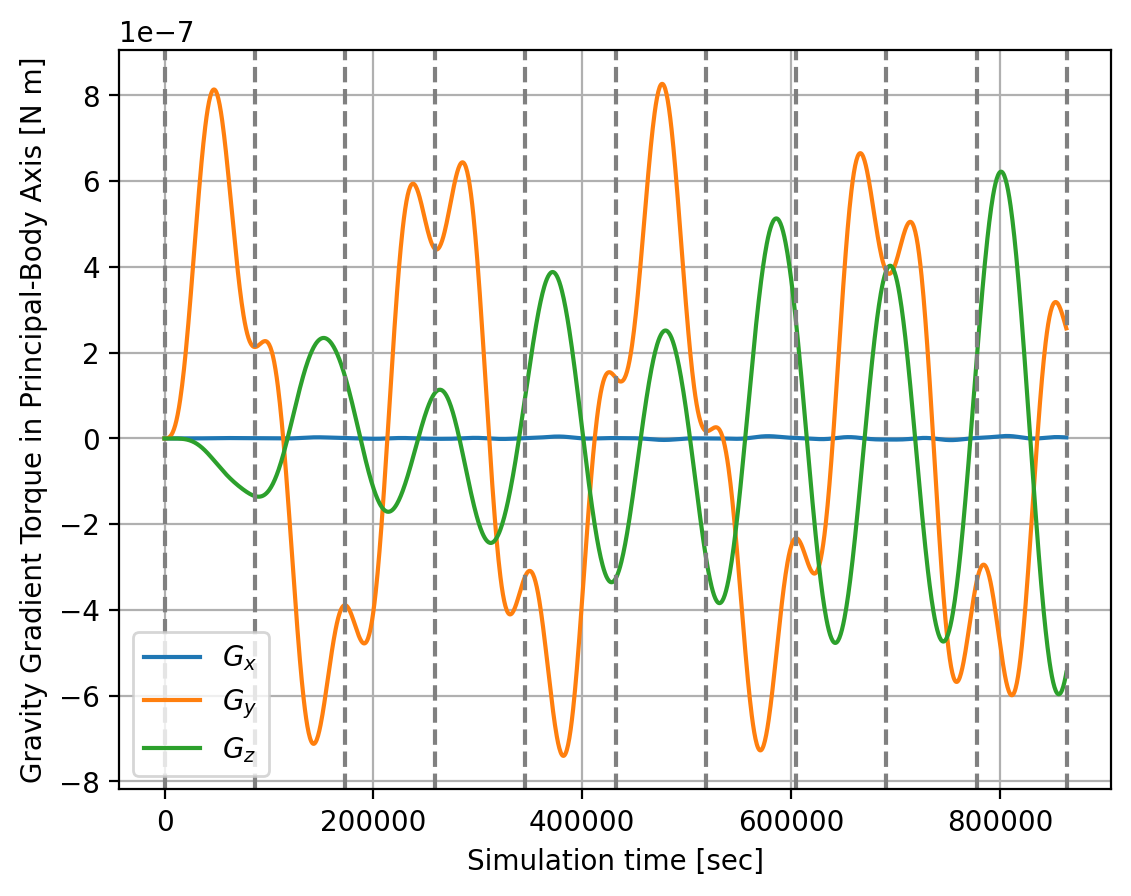
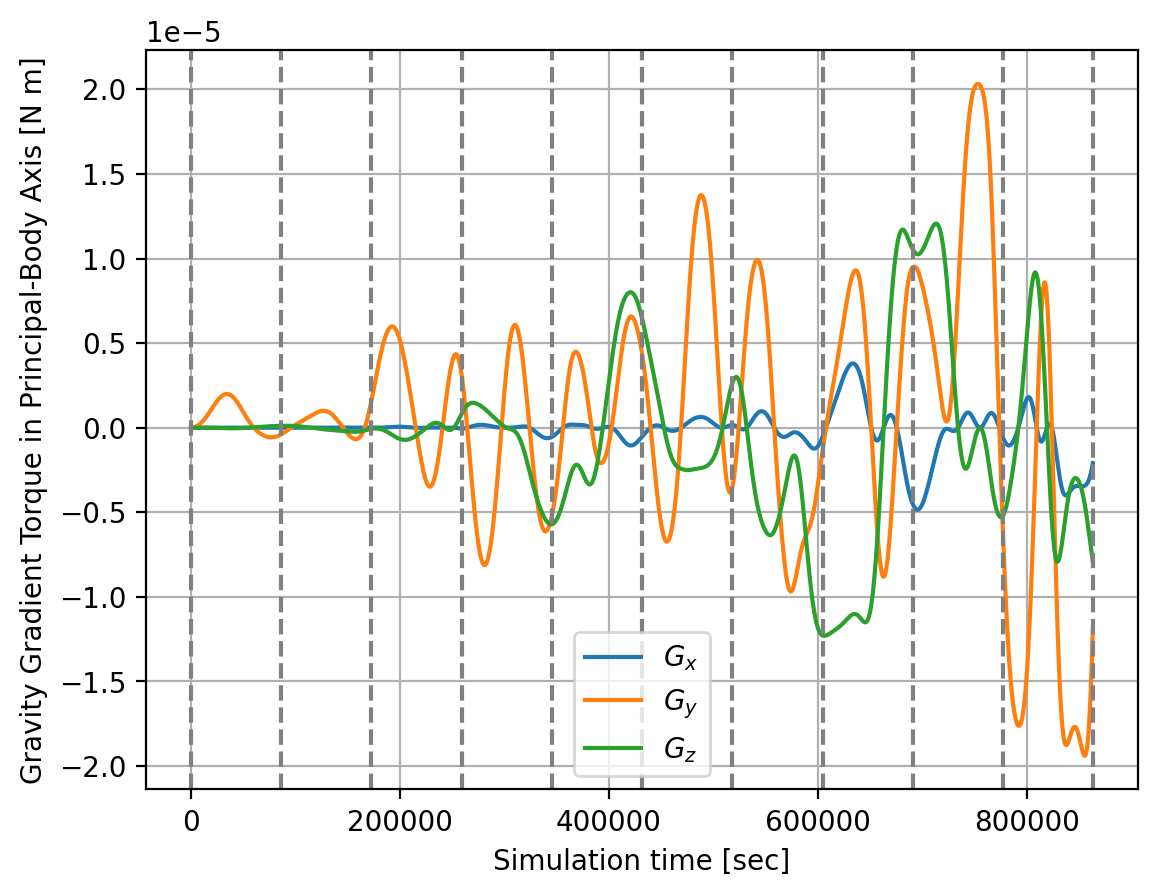
Simulated SRP torques

diff --git a/ps5_perturbations_test.py b/ps5_perturbations_test.py
@@ -150,7 +150,8 @@ def compute_solar_torque_component(current_time, pos_eci, att_body2eci):
     total_torque = np.array([0., 0., 0.])
     
     # Get the direction vector to the sun.
-    sun_direction_eci = ephemeris.compute_sun_position_eci( current_time )
+    sun_pos_eci = ephemeris.compute_sun_position_eci( current_time )
+    sun_direction_eci = sun_pos_eci / norm(sun_pos_eci)
     
     # If not in eclipse, return zero
     if check_if_in_eclipse(pos_eci, sun_direction_eci):
@@ -176,16 +177,16 @@ def compute_solar_torque_component(current_time, pos_eci, att_body2eci):
         4.00, # Solar panel right -Z
         ]
     face_normals = [
-        [0, 0,  1], # Solar panel left +Z
-        [0, 0, -1], # Solar panel left -Z
-        [0, 0,  1], # Solar panel right +Z
-        [0, 0, -1], # Solar panel right -Z
+        np.array([0., 0.,  1.]), # Solar panel left +Z
+        np.array([0., 0., -1.]), # Solar panel left -Z
+        np.array([0., 0.,  1.]), # Solar panel right +Z
+        np.array([0., 0., -1.]), # Solar panel right -Z
         ]
     face_barycenters = [
-        [-1.43,  3.00, 0.01], # Solar panel left +Z
-        [-1.43,  3.00, 0.00], # Solar panel left -Z
-        [-1.43, -3.00, 0.01], # Solar panel right +Z
-        [-1.43, -3.00, 0.00], # Solar panel right -Z
+        np.array([-1.43,  3.00, 0.01]), # Solar panel left +Z
+        np.array([-1.43,  3.00, 0.00]), # Solar panel left -Z
+        np.array([-1.43, -3.00, 0.01]), # Solar panel right +Z
+        np.array([-1.43, -3.00, 0.00]), # Solar panel right -Z
         ]
     
     # For each face, add the total radiation pressure torque
@@ -213,7 +214,9 @@ def compute_solar_torque_component(current_time, pos_eci, att_body2eci):
     sphere_radius = 1.250
     total_torque += sphere_barycenter * srp.srp_area_loss_sphere(
         Cd_titanium, sun_direction_body, sphere_radius)
-    return total_torque
+    
+    # Solar radiation pressure constant = solar constant / speed of light
+    return 4.5E-6 * total_torque
 
 # Define a function here that plots a satellite in orbit, with current
 # attitude expressed as columns of its DCM (for visualization). 
@@ -391,8 +394,9 @@ plt.grid()
 # plt.show()
 
 # Save the quaternion plot
-plt.savefig(file_path + 'QTR-Pert.png', dpi=200, 
-            bbox_inches='tight')
+plt.savefig(file_path + 'QTR-Pert.png', dpi=200, bbox_inches='tight')
+
+print("Plotting torque: gravity gradient")
 
 # Plot gravity gradients.
 plt.figure()
@@ -413,6 +417,8 @@ plt.grid()
 # Save the gravity gradient plot
 plt.savefig(file_path + 'gTorque-Pert.png', dpi=200, bbox_inches='tight')
 
+print("Plotting torque: magnetic")
+
 # Plot magnetic moment torques.
 plt.figure()
 plt.plot( timeAxis[::sampleSkip], states_mtorq[0,::sampleSkip] )
@@ -432,6 +438,8 @@ plt.grid()
 # Save the magnetic moment plot
 plt.savefig(file_path + 'mTorque-Pert.png', dpi=200, bbox_inches='tight')
 
+print("Plotting torque: SRP")
+
 # Plot SRP moment torques.
 plt.figure()
 plt.plot( timeAxis[::sampleSkip], states_storq[0,::sampleSkip] )
@@ -449,7 +457,7 @@ plt.grid()
 # plt.show()
 
 # Save the SRP plot
-plt.savefig(file_path + 'mTorque-Pert.png', dpi=200, bbox_inches='tight')
+plt.savefig(file_path + 'sTorque-Pert.png', dpi=200, bbox_inches='tight')
     
 print("Plotting Euler")
 
